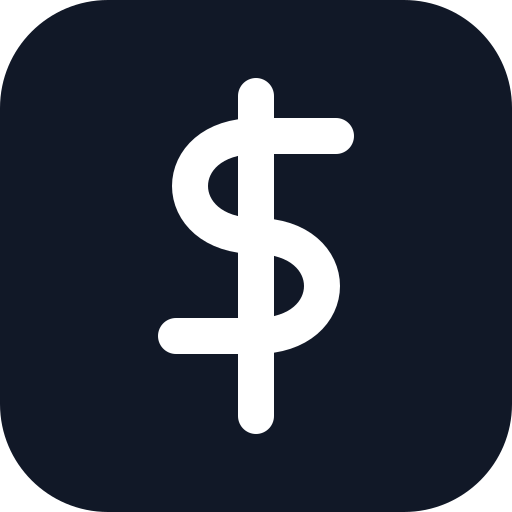
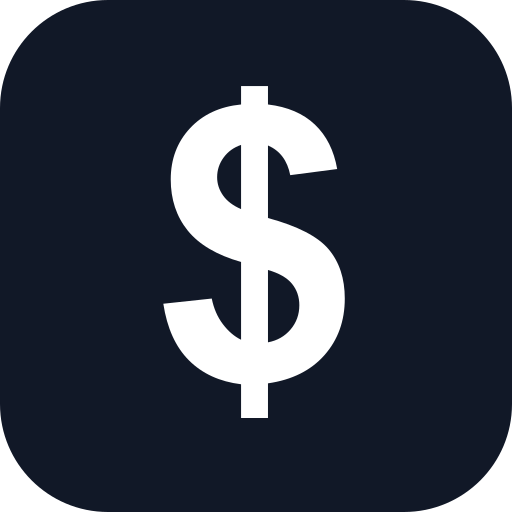
fix: 아이콘 선명도, 차트 3개월/6개월/1년 빈화면, 모바일 반응형
- 아이콘: SVG stroke → text 기반 $ 로 변경 (소형에서도 선명)
- 차트 history API: dynamic=force-dynamic 추가, 타임아웃 25초로 확장
- 환율 페이지: realtime=true로 캐시 우회
- 모바일 반응형: 기간 버튼 flex-wrap, 통계 2x2 그리드, 글자 크기 조정
- 환율 페이지 헤더 모바일 세로 정렬

diff --git a/src/components/exchange/ExchangeChart.tsx b/src/components/exchange/ExchangeChart.tsx
@@ -97,7 +97,7 @@ export function ExchangeChart({ currency = "USD", className }: ExchangeChartProp
 
     // 컨테이너 크기 확인
     const containerWidth = chartContainerRef.current.clientWidth || chartContainerRef.current.offsetWidth || 800;
-    const containerHeight = chartContainerRef.current.clientHeight || 450;
+    const containerHeight = chartContainerRef.current.clientHeight || 350;
 
     const chart = createChart(chartContainerRef.current, {
       layout: {
@@ -155,7 +155,7 @@ export function ExchangeChart({ currency = "USD", className }: ExchangeChartProp
     const handleResize = () => {
       if (chartContainerRef.current && chartRef.current) {
         const newWidth = chartContainerRef.current.clientWidth || chartContainerRef.current.offsetWidth || 800;
-        const newHeight = chartContainerRef.current.clientHeight || 450;
+        const newHeight = chartContainerRef.current.clientHeight || 350;
         chartRef.current.applyOptions({ width: newWidth, height: newHeight });
         chartRef.current.timeScale().fitContent();
       }
@@ -186,15 +186,17 @@ export function ExchangeChart({ currency = "USD", className }: ExchangeChartProp
 
   return (
     <Card className={className}>
-      <CardHeader>
-        <div className="flex items-center justify-between">
-          <CardTitle>{currency}/KRW 차트</CardTitle>
-          <div className="flex gap-1">
+      <CardHeader className="pb-3">
+        {/* 타이틀 + 기간 버튼: 모바일에서 세로 정렬 */}
+        <div className="flex flex-col sm:flex-row sm:items-center sm:justify-between gap-3">
+          <CardTitle className="text-base sm:text-lg">{currency}/KRW 차트</CardTitle>
+          <div className="flex gap-1 flex-wrap">
             {PERIODS.map((period) => (
               <Button
                 key={period.days}
                 variant={selectedPeriod === period.days ? "default" : "outline"}
                 size="sm"
+                className="h-7 px-2 text-xs sm:h-8 sm:px-3 sm:text-sm"
                 onClick={() => setSelectedPeriod(period.days)}
               >
                 {period.label}
@@ -203,19 +205,19 @@ export function ExchangeChart({ currency = "USD", className }: ExchangeChartProp
           </div>
         </div>
 
-        {/* 통계 정보 */}
+        {/* 통계 정보: 모바일에서 2x2 그리드 */}
         {stats && (
-          <div className="flex items-center gap-6 mt-4 text-sm">
-            <div>
-              <span className="text-muted-foreground">현재가</span>
-              <p className="text-xl font-bold tabular-nums">
+          <div className="grid grid-cols-2 sm:flex sm:items-center gap-3 sm:gap-6 mt-3 text-sm">
+            <div className="min-w-0">
+              <span className="text-xs text-muted-foreground">현재가</span>
+              <p className="text-lg sm:text-xl font-bold tabular-nums truncate">
                 {stats.current.toLocaleString("ko-KR", { maximumFractionDigits: 2 })}
               </p>
             </div>
-            <div>
-              <span className="text-muted-foreground">변동</span>
+            <div className="min-w-0">
+              <span className="text-xs text-muted-foreground">변동</span>
               <p
-                className={`text-lg font-semibold tabular-nums flex items-center gap-1 ${
+                className={`text-sm sm:text-lg font-semibold tabular-nums flex items-center gap-1 ${
                   stats.change > 0
                     ? "text-red-500"
                     : stats.change < 0
@@ -224,26 +226,28 @@ export function ExchangeChart({ currency = "USD", className }: ExchangeChartProp
                 }`}
               >
                 {stats.change > 0 ? (
-                  <TrendingUp className="h-4 w-4" />
+                  <TrendingUp className="h-3.5 w-3.5 shrink-0" />
                 ) : stats.change < 0 ? (
-                  <TrendingDown className="h-4 w-4" />
+                  <TrendingDown className="h-3.5 w-3.5 shrink-0" />
                 ) : (
-                  <Minus className="h-4 w-4" />
+                  <Minus className="h-3.5 w-3.5 shrink-0" />
                 )}
-                {stats.change > 0 ? "+" : ""}
-                {stats.change.toFixed(2)} ({stats.changePercent > 0 ? "+" : ""}
-                {stats.changePercent.toFixed(2)}%)
+                <span className="truncate">
+                  {stats.change > 0 ? "+" : ""}
+                  {stats.change.toFixed(2)} ({stats.changePercent > 0 ? "+" : ""}
+                  {stats.changePercent.toFixed(2)}%)
+                </span>
               </p>
             </div>
-            <div>
-              <span className="text-muted-foreground">최고</span>
-              <p className="text-lg font-semibold tabular-nums text-red-500">
+            <div className="min-w-0">
+              <span className="text-xs text-muted-foreground">최고</span>
+              <p className="text-sm sm:text-lg font-semibold tabular-nums text-red-500 truncate">
                 {stats.high.toLocaleString("ko-KR", { maximumFractionDigits: 2 })}
               </p>
             </div>
-            <div>
-              <span className="text-muted-foreground">최저</span>
-              <p className="text-lg font-semibold tabular-nums text-blue-500">
+            <div className="min-w-0">
+              <span className="text-xs text-muted-foreground">최저</span>
+              <p className="text-sm sm:text-lg font-semibold tabular-nums text-blue-500 truncate">
                 {stats.low.toLocaleString("ko-KR", { maximumFractionDigits: 2 })}
               </p>
             </div>
@@ -253,20 +257,20 @@ export function ExchangeChart({ currency = "USD", className }: ExchangeChartProp
 
       <CardContent>
         {loading && !stats && (
-          <div className="h-[450px] flex items-center justify-center">
+          <div className="h-[300px] sm:h-[350px] flex items-center justify-center">
             <div className="text-muted-foreground">차트 로딩 중...</div>
           </div>
         )}
 
         {error && (
-          <div className="h-[450px] flex items-center justify-center">
+          <div className="h-[300px] sm:h-[350px] flex items-center justify-center">
             <div className="text-destructive">{error}</div>
           </div>
         )}
 
         <div
           ref={chartContainerRef}
-          style={{ height: "450px", width: "100%", minHeight: "400px" }}
+          style={{ height: "350px", width: "100%", minHeight: "280px" }}
           className={`${loading && !stats ? "hidden" : ""} ${error ? "hidden" : ""}`}
         />
       </CardContent>

diff --git a/src/app/exchange/page.tsx b/src/app/exchange/page.tsx
@@ -33,7 +33,7 @@ export default function ExchangePage() {
   const fetchRates = async () => {
     setLoading(true);
     try {
-      const res = await fetch("/api/exchange/rates");
+      const res = await fetch("/api/exchange/rates?realtime=true");
       const data = await res.json();
       if (data.rates) {
         setRates(data.rates);
@@ -67,20 +67,20 @@ export default function ExchangePage() {
 
       <main className="max-w-7xl mx-auto px-4 sm:px-6 lg:px-8 py-8 space-y-8">
         {/* 헤더 */}
-        <div className="flex items-center justify-between">
+        <div className="flex flex-col sm:flex-row sm:items-center sm:justify-between gap-3">
           <div>
-            <h1 className="text-2xl font-bold">환율 정보</h1>
-            <p className="text-muted-foreground">
+            <h1 className="text-xl sm:text-2xl font-bold">환율 정보</h1>
+            <p className="text-sm text-muted-foreground">
               실시간 환율 정보를 확인하세요
             </p>
           </div>
-          <div className="flex items-center gap-4">
-            <span className="text-sm text-muted-foreground">
-              {lastUpdated && `마지막 업데이트: ${new Date(lastUpdated).toLocaleTimeString("ko-KR")}`}
+          <div className="flex items-center gap-3">
+            <span className="text-xs sm:text-sm text-muted-foreground">
+              {lastUpdated && new Date(lastUpdated).toLocaleTimeString("ko-KR") + " 기준"}
             </span>
             <Button variant="outline" size="sm" onClick={fetchRates} disabled={loading}>
-              <RefreshCw className={`h-4 w-4 mr-2 ${loading ? "animate-spin" : ""}`} />
-              새로고침
+              <RefreshCw className={`h-4 w-4 mr-1 ${loading ? "animate-spin" : ""}`} />
+              <span className="hidden sm:inline">새로고침</span>
             </Button>
           </div>
         </div>

diff --git a/src/app/api/exchange/history/route.ts b/src/app/api/exchange/history/route.ts
@@ -1,6 +1,10 @@
 import { NextResponse } from "next/server";
 import { getExchangeRateHistory } from "@/lib/exchange";
 
+export const dynamic = "force-dynamic";
+export const revalidate = 0;
+export const maxDuration = 30; // Vercel/Railway 타임아웃 확장
+
 export async function GET(request: Request) {
   try {
     const { searchParams } = new URL(request.url);

diff --git a/src/lib/exchange.ts b/src/lib/exchange.ts
@@ -535,7 +535,7 @@ async function fetchHistoryFromFrankfurter(
     const url = `https://api.frankfurter.app/${startStr}..${endStr}?from=${currency}&to=KRW`;
 
     const response = await fetch(url, {
-      signal: AbortSignal.timeout(15000),
+      signal: AbortSignal.timeout(25000), // 1년 데이터 조회 시 충분한 시간
     });
 
     if (!response.ok) {
